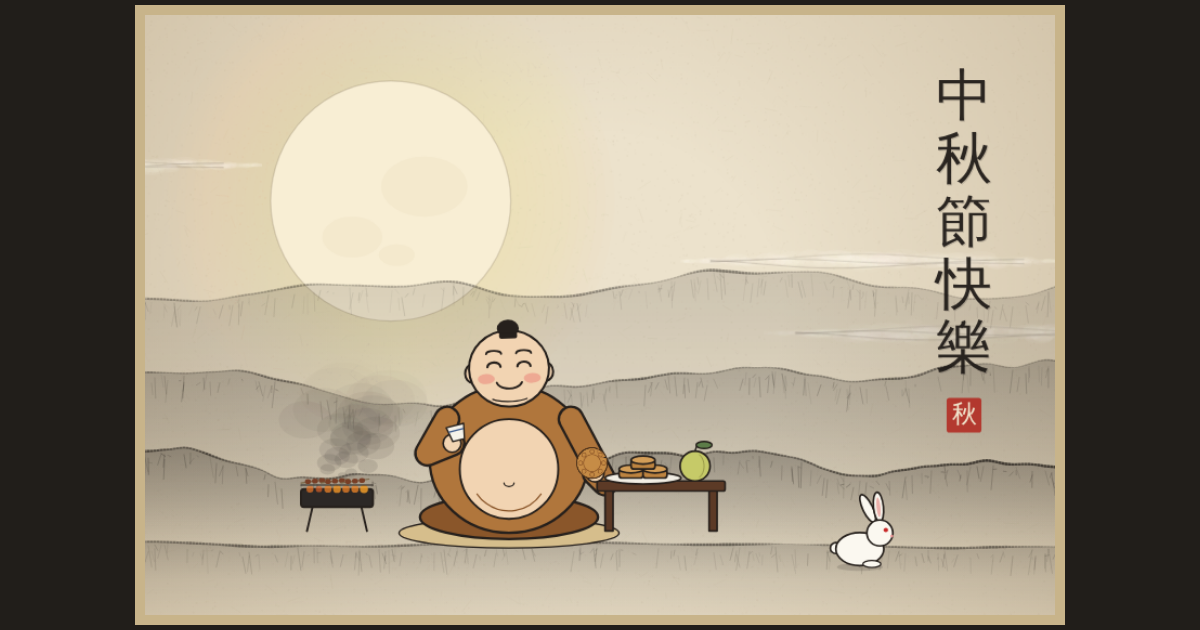
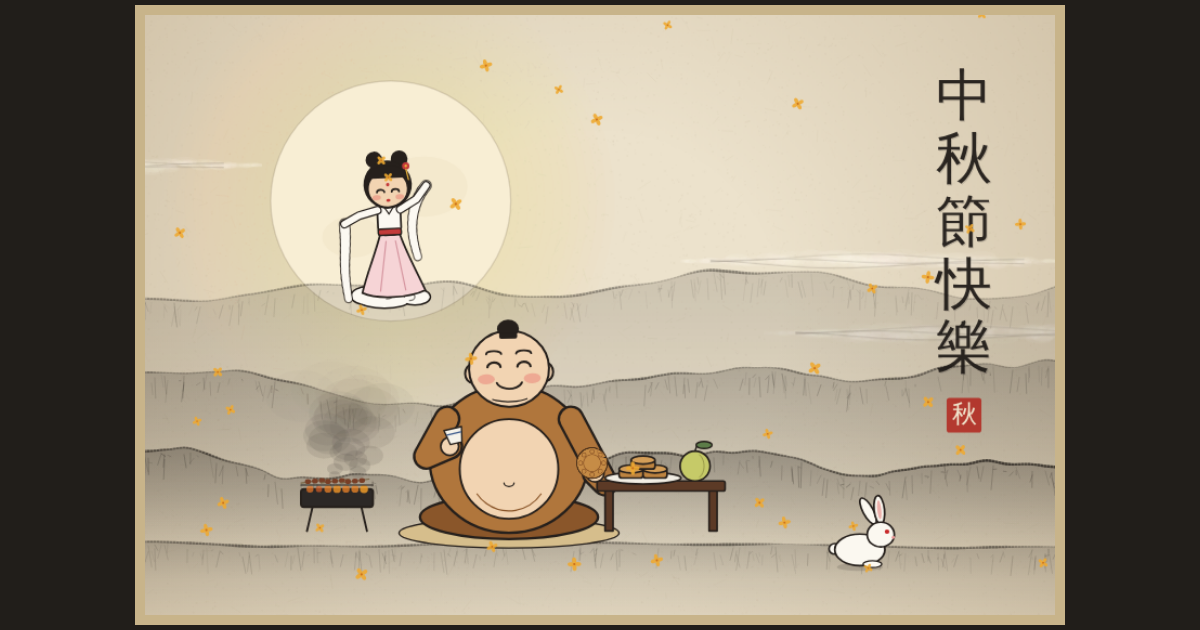
Add dancing Chang'e with water sleeves and falling osmanthus
Chang'e floats on a cloud in front of the moon, cycling through
water-sleeve dance poses with rope-simulated sleeves and an occasional
spin. Osmanthus petals drift across the card; clicking her makes her
spin and scatter a burst of petals. Preview image regenerated.

Claude-Session: https://claude.ai/code/session_01TNiZAFD4nhqGWTFPU3p5Ng

diff --git a/mid-autumn/index.html b/mid-autumn/index.html
@@ -3,10 +3,10 @@
 <head>
 <meta charset="utf-8">
 <meta name="viewport" content="width=device-width, initial-scale=1, viewport-fit=cover">
-<meta name="description" content="水墨風中秋卡片：明月、遠山，胖師傅吃月餅，玉兔跳呀跳。">
+<meta name="description" content="水墨風中秋卡片：嫦娥在月前甩水袖跳舞，胖師傅吃月餅，玉兔跳呀跳。">
 <meta property="og:type" content="website">
 <meta property="og:title" content="中秋節快樂">
-<meta property="og:description" content="水墨風中秋卡片：明月、遠山，胖師傅吃月餅，玉兔跳呀跳。點開來看看！">
+<meta property="og:description" content="水墨風中秋卡片：嫦娥在月前甩水袖跳舞，胖師傅吃月餅，玉兔跳呀跳。點開來看看！">
 <meta property="og:url" content="https://bhnddowinf.github.io/mid-autumn/">
 <meta property="og:image" content="https://bhnddowinf.github.io/mid-autumn/og.png">
 <meta property="og:image:width" content="1200">
@@ -66,7 +66,7 @@
   #music:hover { background: #c3352c; }
   #music:focus-visible { outline: 2px solid var(--text); outline-offset: 3px; }
   #music[aria-pressed="true"] { background: #3a302a; border-color: #5a4a3e; box-shadow: 0 2px 0 #151210; }
-  .hint { font-size: 15px; color: var(--muted); margin: 0; }
+  .hint { font-size: 15px; color: var(--muted); margin: 0; text-align: center; text-wrap: balance; }
   @media (max-width: 560px) {
     .mount { padding: 12px 10px 14px; }
   }
@@ -75,12 +75,12 @@
 <body>
 <div class="scroll">
   <div class="rod"></div>
-  <div class="mount"><div id="stage" role="img" aria-label="水墨中秋卡片：明月、遠山，胖師傅吃月餅喝酒，玉兔在一旁跳，題字「中秋節快樂」"></div></div>
+  <div class="mount"><div id="stage" role="img" aria-label="水墨中秋卡片：明月、遠山，嫦娥在月前甩水袖跳舞，桂花飄落，胖師傅吃月餅喝酒，玉兔在一旁跳，題字「中秋節快樂」"></div></div>
   <div class="rod"></div>
 </div>
 <div class="controls">
   <button id="music" type="button" aria-pressed="false">奏樂 ♪</button>
-  <p class="hint">點胖師傅，他會笑；點玉兔，牠會跳。</p>
+  <p class="hint">點嫦娥，她會轉圈；點胖師傅，他會笑；點玉兔，牠會跳。</p>
 </div>
 
 <script src="https://cdnjs.cloudflare.com/ajax/libs/p5.js/1.9.4/p5.min.js"></script>
@@ -92,7 +92,7 @@ const FONT = "'LXGW WenKai TC', 'Kaiti TC', KaiTi, 'Noto Serif TC', serif";
 
 let W, H, u, L;
 let paperG, mountG, cakeG, clouds = [];
-let crumbs = [], smoke = [];
+let crumbs = [], smoke = [], petals = [];
 let bites = 0, cakeDirty = true;
 const man = { laughT: 0 };
 const rabbit = { x: 0, dir: 1, hopT: 0, hopDur: 28, hopH: 22, hopDx: 26, wait: 40, land: 0 };
@@ -107,6 +107,7 @@ function computeSize() {
   L = land
     ? { moon: [.27, .31], moonR: .2, title: [.9, .09], man: [.4, .86], rabbitY: .92, rabbitX: [.68, .82], tsize: 56 }
     : { moon: [.37, .2], moonR: .26, title: [.86, .06], man: [.42, .86], rabbitY: .95, rabbitX: [.6, .8], tsize: 60 };
+  L.change = [L.moon[0], L.moon[1] + L.moonR * Math.min(W, H) / H * .78];
   rabbit.x = L.rabbitX[0] * W;
 }
 
@@ -127,7 +128,8 @@ function windowResized() {
 
 function buildAll() {
   randomSeed(8); noiseSeed(8);
-  buildPaper(); buildMountains(); buildClouds(); cakeDirty = true;
+  buildPaper(); buildMountains(); buildClouds(); initPetals(); cakeDirty = true;
+  change.sleeves = [[], []];
 }
 
 /* ---------- 宣紙 ---------- */
@@ -429,6 +431,188 @@ function drawMan() {
   pop();
 }
 
+/* ---------- 嫦娥水袖舞 ---------- */
+const change = { spinT: 0, lastIdx: -1, sleeves: [[], []] };
+// [左肩, 左肘, 右肩, 右肘, 身體傾斜]；肩角 0 = 手臂下垂，越大越往外往上
+const POSES = [
+  [2.6, .3, 2.6, .3, 0],
+  [2.4, .5, 1.0, -.4, .08],
+  [1.6, .2, 1.6, .2, -.04],
+  [1.0, -.4, 2.4, .5, -.08],
+  [2.9, .8, .6, .6, .1],
+  [1.8, .1, 1.8, .1, 0]
+];
+const GOWN = [246, 212, 214], GOWN_D = [214, 150, 160], SASH = [196, 58, 58], SILK = [252, 249, 242];
+
+function dancePose(f) {
+  const t = f / 100, i = floor(t) % POSES.length, j = (i + 1) % POSES.length;
+  const e = ease(constrain((t % 1) * 1.4, 0, 1));
+  const P = POSES[i].map((v, k) => lerp(v, POSES[j][k], e));
+  const w = sin(f * .05) * .12;
+  P[0] += w; P[2] -= w; P[1] += sin(f * .07) * .15; P[3] += cos(f * .07) * .15;
+  return { P, idx: i };
+}
+
+function updateSleeve(pts, anchor) {
+  const N = 12, seg = 6.5;
+  if (!pts.length) for (let i = 0; i < N; i++) pts.push(createVector(anchor.x, anchor.y + i * seg));
+  pts[0].set(anchor);
+  for (let i = 1; i < N; i++) {
+    const p = pts[i];
+    p.y += 1.4;
+    p.x += sin(frameCount * .05 + i * .4) * .35;
+    const d = p5.Vector.sub(p, pts[i - 1]).setMag(seg);
+    p.set(p5.Vector.add(pts[i - 1], d));
+  }
+}
+
+function drawSleeve(pts) {
+  strokeCap(ROUND); noFill();
+  for (const pass of [0, 1]) {
+    for (let i = 1; i < pts.length; i++) {
+      const w = lerp(9, 6, i / pts.length);
+      if (pass === 0) { stroke(INK[0], INK[1], INK[2], 170); strokeWeight(w + 2.4); }
+      else { stroke(SILK); strokeWeight(w); }
+      line(pts[i - 1].x, pts[i - 1].y, pts[i].x, pts[i].y);
+    }
+  }
+}
+
+function drawSeatCloud() {
+  const puffs = [[-22, 2, 30, 16], [0, -1, 40, 20], [23, 3, 28, 14], [-6, 7, 44, 12]];
+  stroke(INK); strokeWeight(3.2); fill(SILK);
+  puffs.forEach(p => ellipse(...p));
+  noStroke();
+  puffs.forEach(p => ellipse(...p));
+  noFill(); stroke(INK[0], INK[1], INK[2], 150); strokeWeight(1.3);
+  arc(-4, 0, 14, 10, PI, TWO_PI + HALF_PI);
+  arc(18, 3, 10, 7, PI, TWO_PI + HALF_PI);
+}
+
+function drawChange() {
+  const f = REDUCED ? frameCount * .5 : frameCount;
+  const k = u * 1.05;
+  const ox = L.change[0] * W, oy = L.change[1] * H + sin(frameCount * .03) * 5 * u;
+  const { P, idx } = dancePose(f);
+  if (!REDUCED && idx === 5 && change.lastIdx !== 5) change.spinT = 70;
+  change.lastIdx = idx;
+  let sx = 1;
+  if (change.spinT > 0) { sx = cos(ease(1 - change.spinT / 70) * TAU); change.spinT--; }
+  const tilt = P[4];
+  // 與下方 push/scale/rotate 相同的變換，用來算手腕在畫面上的位置
+  const T = p => {
+    const y = p.y + 40;
+    return createVector((p.x * cos(tilt) - y * sin(tilt)) * sx, p.x * sin(tilt) + y * cos(tilt) - 40);
+  };
+  const arms = [-1, 1].map((s, n) => {
+    const a = n ? P[2] : P[0], e = n ? P[3] : P[1];
+    const sh = createVector(s * 11, -80);
+    const el = p5.Vector.add(sh, createVector(s * sin(a), cos(a)).mult(18));
+    const wr = p5.Vector.add(el, createVector(s * sin(a + e), cos(a + e)).mult(16));
+    return { sh, el, wr };
+  });
+  arms.forEach((arm, n) => updateSleeve(change.sleeves[n], T(arm.wr)));
+  const body = () => { translate(0, -40); scale(sx, 1); rotate(tilt); translate(0, 40); };
+  const sway = sin(frameCount * .06) * 4;
+
+  push(); translate(ox, oy); scale(k);
+  drawSeatCloud();
+
+  push(); body();
+  // 飄帶腰帶
+  stroke(INK); strokeWeight(1.3); fill(SASH);
+  beginShape(); vertex(2, -58); bezierVertex(8, -40, -2 + sway, -28, 6 + sway * 1.5, -14);
+  vertex(9 + sway * 1.5, -15); bezierVertex(2 + sway, -28, 12, -40, 6, -58); endShape(CLOSE);
+  // 長裙
+  stroke(INK); strokeWeight(1.8); fill(GOWN);
+  beginShape();
+  vertex(-9, -58);
+  bezierVertex(-14, -40, -24, -20, -30 + sway, -2);
+  bezierVertex(-15, 5, 15, 5, 30 + sway, -2);
+  bezierVertex(24, -20, 14, -40, 9, -58);
+  endShape(CLOSE);
+  noFill(); stroke(GOWN_D); strokeWeight(1.2);
+  line(-4, -50, -12 + sway * .5, -3); line(5, -50, 12 + sway * .5, -3);
+  // 上衣與腰帶
+  stroke(INK); strokeWeight(1.8); fill(SILK);
+  rect(-11, -85, 22, 29, 7);
+  noFill(); strokeWeight(1.2); line(-6, -85, 0, -76); line(6, -85, 0, -76);
+  fill(SASH); strokeWeight(1.5); rect(-11, -62, 22, 6, 2);
+  pop();
+
+  change.sleeves.forEach(drawSleeve);
+
+  push(); body();
+  arms.forEach(({ sh, el, wr }) => {
+    strokeCap(ROUND); noFill();
+    stroke(INK); strokeWeight(8.5);
+    beginShape(); vertex(sh.x, sh.y); vertex(el.x, el.y); vertex(wr.x, wr.y); endShape();
+    stroke(SILK); strokeWeight(6);
+    beginShape(); vertex(sh.x, sh.y); vertex(el.x, el.y); vertex(wr.x, wr.y); endShape();
+  });
+  // 頭
+  stroke(INK); strokeWeight(1.6); fill(SKIN); rect(-3, -90, 6, 7);
+  fill(INK); noStroke();
+  circle(-12, -128, 16); circle(12, -128, 16);
+  ellipse(0, -104, 46, 46);
+  if (sx > 0) {
+    fill(SKIN); stroke(INK); strokeWeight(1.6); ellipse(0, -100, 38, 35);
+    fill(INK); noStroke(); arc(0, -108, 42, 28, PI + .1, TWO_PI - .1, CHORD);
+    fill(SASH); circle(0, -104, 3.2);
+    stroke(INK); strokeWeight(1.8); noFill();
+    arc(-7, -97, 7, 5, PI, TWO_PI); arc(7, -97, 7, 5, PI, TWO_PI);
+    noStroke(); fill(232, 118, 108, 120); ellipse(-11, -92, 8, 5); ellipse(11, -92, 8, 5);
+    fill(196, 50, 50); ellipse(0, -89, 4, 3);
+  }
+  // 髮飾
+  noStroke(); fill(SASH); circle(18, -121, 7); fill(236, 180, 60); circle(18, -121, 2.5);
+  stroke(236, 180, 60); strokeWeight(1.2); line(18, -118, 20, -108);
+  pop();
+
+  pop();
+}
+
+function overChange() {
+  return dist(mouseX, mouseY, L.change[0] * W, L.change[1] * H - 70 * u * 1.05) < 72 * u;
+}
+
+/* ---------- 桂花 ---------- */
+function newPetal(y) {
+  return { x: random(W), y, vy: random(.35, .8) * u + .2, ph: random(TAU), rot: random(TAU), vr: random(-.04, .04), s: random(3.5, 6) * u + 1.5 };
+}
+function initPetals() {
+  petals = [];
+  for (let i = 0; i < (REDUCED ? 12 : 36); i++) petals.push(newPetal(random(H)));
+}
+function burstPetals() {
+  const cx = L.change[0] * W, cy = L.change[1] * H - 75 * u;
+  for (let i = 0; i < 26; i++) {
+    const p = newPetal(cy);
+    p.x = cx; p.temp = true;
+    p.vx = random(-3, 3) * u; p.vy = random(-3, -.5) * u;
+    petals.push(p);
+  }
+}
+function drawPetals() {
+  noStroke();
+  for (let n = petals.length - 1; n >= 0; n--) {
+    const p = petals[n];
+    if (p.temp) { p.x += p.vx; p.vx *= .97; p.vy = Math.min(p.vy + .03, .8 * u); }
+    p.y += p.vy;
+    p.x += sin(frameCount * .02 + p.ph) * .5 * u;
+    p.rot += p.vr;
+    if (p.y > H + 10) {
+      if (p.temp) { petals.splice(n, 1); continue; }
+      Object.assign(p, newPetal(-10));
+    }
+    push(); translate(p.x, p.y); rotate(p.rot);
+    fill(238, 170, 50, 230);
+    for (let i = 0; i < 4; i++) { rotate(HALF_PI); ellipse(0, -p.s * .45, p.s * .55, p.s * .9); }
+    fill(200, 110, 30); circle(0, 0, p.s * .3);
+    pop();
+  }
+}
+
 /* ---------- 玉兔 ---------- */
 function startHop(big) {
   const [a, b] = L.rabbitX;
@@ -488,7 +672,9 @@ function draw() {
   drawTitle();
   drawMan();
   drawRabbit();
-  cursor(overMan() || overRabbit() ? HAND : ARROW);
+  drawChange();
+  drawPetals();
+  cursor(overChange() || overMan() || overRabbit() ? HAND : ARROW);
 }
 
 function overMan() {
@@ -499,7 +685,8 @@ function overRabbit() {
   return dist(mouseX, mouseY, rabbit.x, L.rabbitY * H - 25 * u) < 48 * u;
 }
 function mousePressed() {
-  if (overRabbit()) { if (rabbit.hopT <= 0) startHop(true); }
+  if (overChange()) { if (change.spinT <= 0) change.spinT = 70; burstPetals(); }
+  else if (overRabbit()) { if (rabbit.hopT <= 0) startHop(true); }
   else if (overMan()) man.laughT = 90;
 }
 
